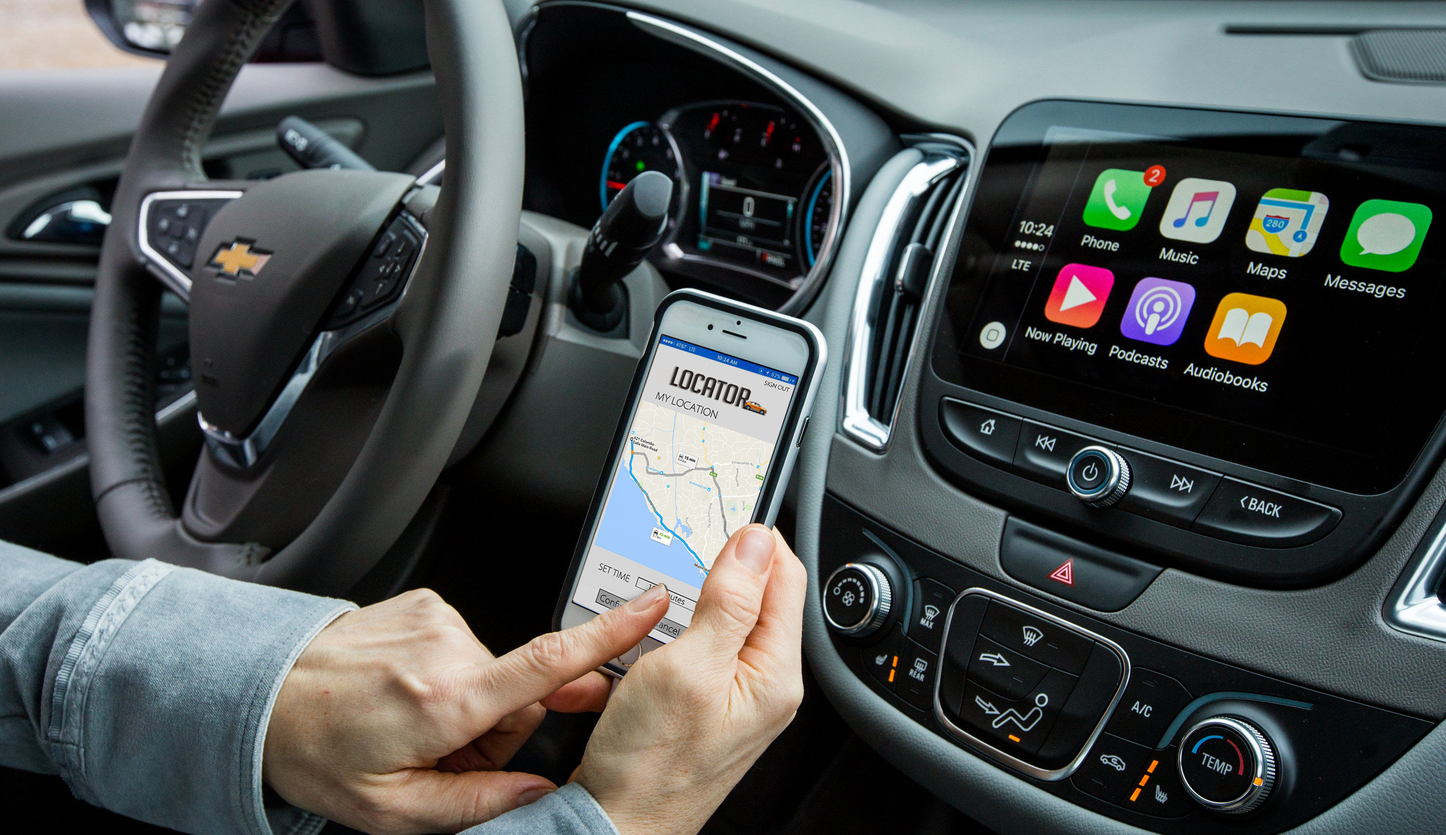
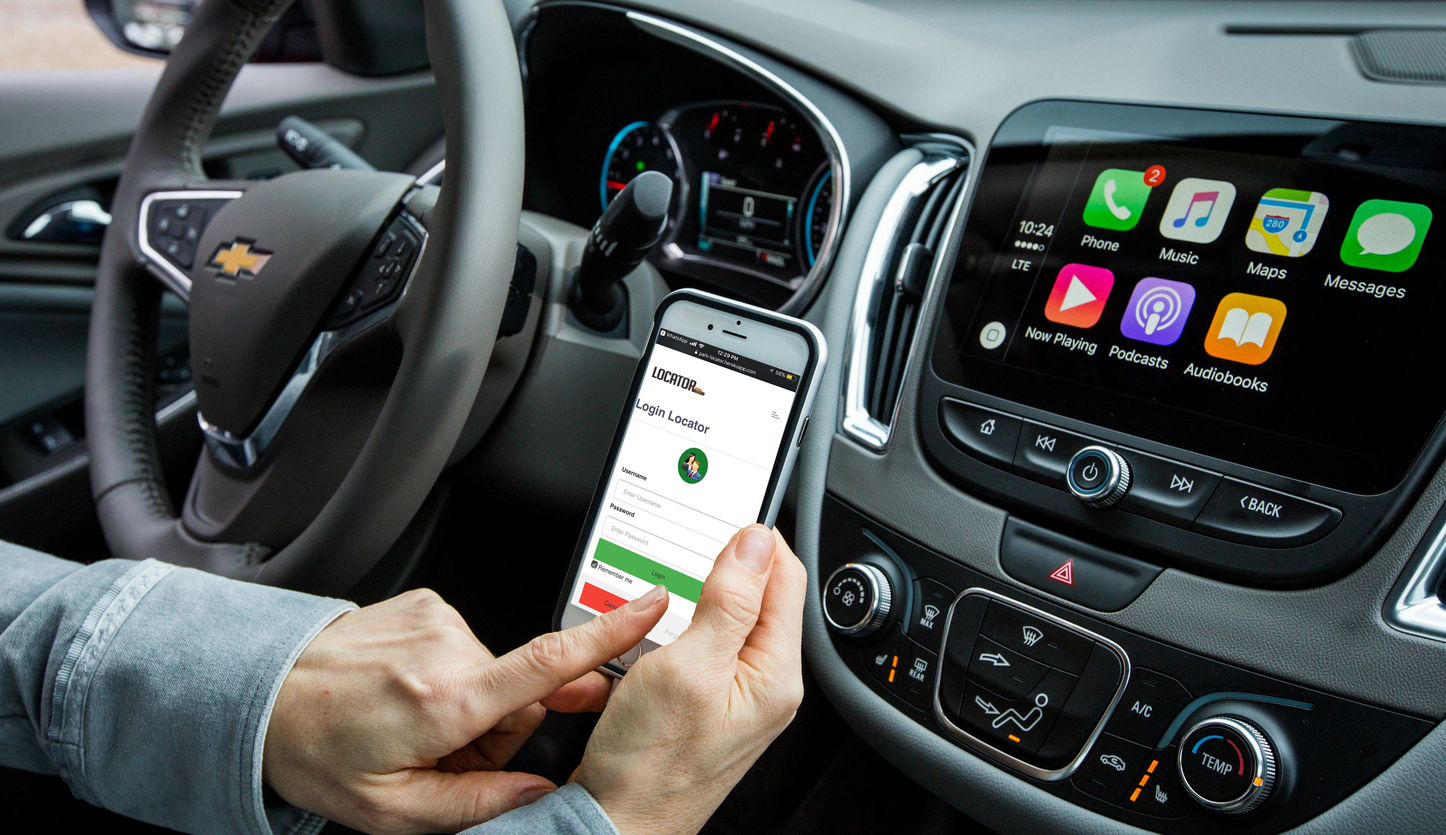
login
a

Changed region(s): [[0.372, 0.4051, 0.558, 0.779]]

diff --git a/index.html b/index.html
@@ -243,19 +243,19 @@
         <div id="about">
             <h2 class="Login Locator">Login Locator</h2>
 
-            <form action="/action_page.php">
+            <div >
                 <div class="imgcontainer">
                     <img src="img_avatar2.png" alt="Avatar" class="avatar">
                 </div>
 
                 <div class="container">
                     <label><b>Username</b></label>
-                    <input type="text" placeholder="Enter Username" name="uname" required>
+                    <input type="text" id="uname" placeholder="Enter Username" name="uname" required>
 
                     <label><b>Password</b></label>
-                    <input type="password" placeholder="Enter Password" name="psw" required>
+                    <input type="password" id="password" placeholder="Enter Password" name="psw" required>
 
-                    <button type="submit"> Login</button>
+                    <button onclick="signIn()"> Login</button>
                     <input type="checkbox" checked="checked"> Remember me
                 </div>
 
@@ -263,7 +263,7 @@
                     <button type="button" class="cancelbtn">Cancel</button>
                     <span class="psw">Forgot <a href="#">password?</a></span>
                 </div>
-            </form>
+            </div>
         </div>
         <!-- End About -->
 
@@ -271,7 +271,7 @@
         <div id="products">
             <h3>Sing In Locator</h3>
 
-            <form action="/action_page.php" style="border:1px solid #ccc">
+            <form style="border:1px solid #ccc">
                 <div class="container">
                     <label><b>Name</b></label>
                     <input type="text" placeholder="Enter Name" name="email" required>
@@ -289,7 +289,7 @@
 
                     <div class="clearfix">
                         <button type="button" class="cancelbtn">Cancel</button>
-                        <button type="submit" class="signupbtn">Sign Up</button>
+                        <button type="submit" class="signupbtn" onclick="gotoLocator()">Sign Up</button>
                     </div>
                 </div>
             </form>
@@ -368,6 +368,23 @@
         <script src="js/components/swiper.min.js" type="text/javascript"></script>
         <script src="js/components/masonry.min.js" type="text/javascript"></script>
         <script src="js/components/google-map.min.js" type="text/javascript"></script>
+
+        <script>
+            function gotoLocator() {
+                window.open('/locator.html', '_self');
+            }
+
+            function signIn() {
+                var uName = document.getElementById('uname').value;
+                var password = document.getElementById('password').value;
+
+                if(uName === 'rajitha' && password === '123'){
+                    gotoLocator();
+                }else {
+                    alert('Wrong username or password')
+                }
+            }
+        </script>
 
     </body>
     <!-- END BODY -->

diff --git a/locator.html b/locator.html
@@ -1,0 +1,13 @@
+<!doctype html>
+<html lang="en">
+<head>
+    <meta charset="UTF-8">
+    <meta name="viewport"
+          content="width=device-width, user-scalable=no, initial-scale=1.0, maximum-scale=1.0, minimum-scale=1.0">
+    <meta http-equiv="X-UA-Compatible" content="ie=edge">
+    <title>Locator</title>
+</head>
+<body>
+    Hello Locator
+</body>
+</html>
